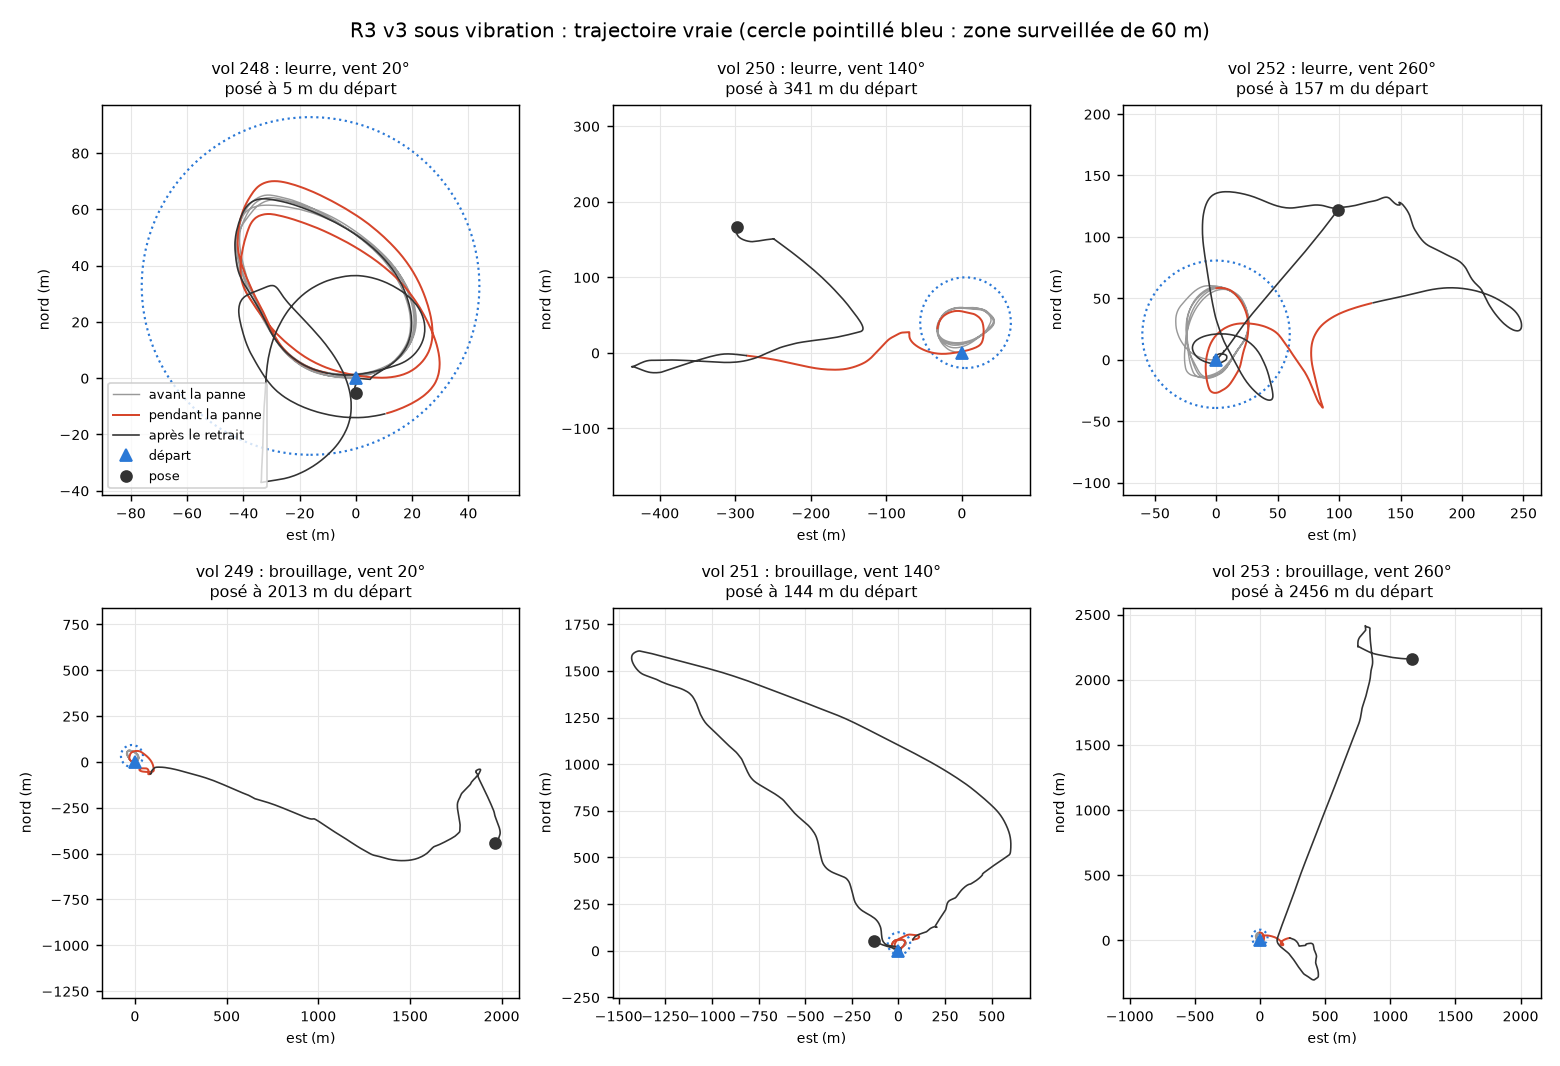
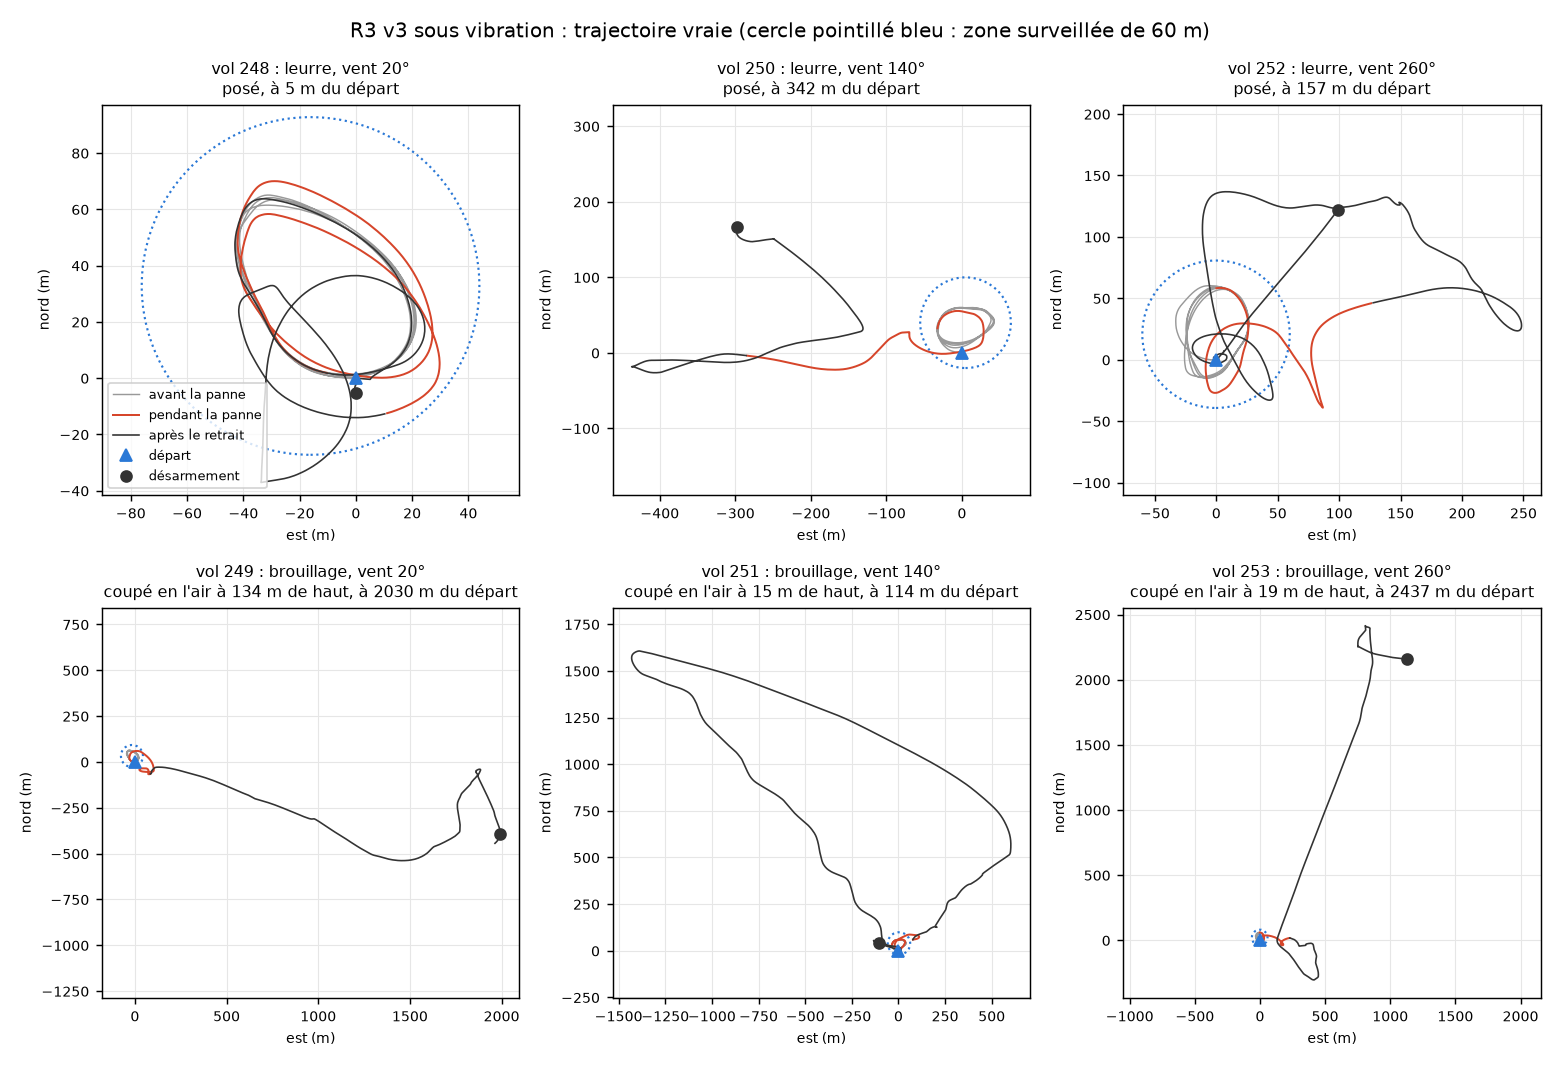
feat: flux optique simulé, R3 sous vibration reprend le GPS 9 fois sur 9 ; désarmement forcé sûr
- scripts/flux_optique.parm et lancer_vol.sh --flux_optique : flux optique et télémètre simulés
  chargés au démarrage du SITL, suivi du terrain désactivé (SURFTRAK_MODE 0, WP_RFND_USE 0).
- vol_auto.py --flux_optique (vérification des paramètres) et --flux_permanent (flux fusionné en
  permanence, EK3_SRC3_VELXY 5 et EK3_SRC_OPTIONS 1).
- Vols 254 à 267 : avec vibration et flux, R3 reprend le GPS sain 9 fois sur 9 (1 sur 6 sans
  flux), erreur de position de 4 à 15 m à la fin de la panne (113 à 319 m sans flux).
- vol_auto.py : le désarmement forcé exige 15 s posé d'après l'état vrai du simulateur
  (SIM_STATE). L'ancienne règle, fondée sur l'altitude estimée, a coupé six drones en l'air
  après le RTL (vols 249, 251, 253, 264, 265, 267) ; README et figure corrigés.

diff --git a/scripts/vol_auto.py b/scripts/vol_auto.py
@@ -3,6 +3,7 @@
 Usage : python vol_auto.py <scenario> [vent_vitesse vent_direction vent_turbulence]
                            [--injection T] [--amplitude A] [--detecteur] [--trainee] [--bascule T]
                            [--reponse rien|natif|natif_trainee|r3] [--bruit R] [--vibration]
+                           [--flux_optique] [--flux_permanent]
         (le SITL doit écouter sur tcp:127.0.0.1:5760)
 Scénarios : nominal, gps60, gps30, biais10, biais05, biais, magneto, jam, et (amplitude obligatoire)
 derive, gyro, bruit_gyro, bloque, leurre, leurre_rampe.
@@ -60,6 +61,15 @@ R = 30 ou 60 est bien plus fort que le bruit d'une vraie IMU (README).
 (Tools/autotest/arducopter.py:5644-5658), appliquées aux trois IMU : VIBRATION. Avec une
 vibration, SIM_GYR*_RND et SIM_ACC*_RND deviennent l'amplitude de sinusoïdes aux fréquences des
 moteurs au lieu d'un bruit blanc (AP_InertialSensor_SITL.cpp:245-279).
+--flux_optique : capteur de flux optique et télémètre simulés (scripts/flux_optique.parm, chargé
+au démarrage du SITL par lancer_vol.sh, car FLOW_TYPE et RNGFND1_TYPE ne sont lus qu'au
+démarrage) ; vol_auto.py vérifie seulement qu'ils sont configurés. L'EKF ne s'en sert pas tant
+qu'aucun jeu de sources ne le choisit (EK3_SRCn_VELXY = 5) : vols pilotes 254 et 255.
+--flux_permanent (avec --flux_optique) : l'EKF fusionne en permanence la vitesse du flux optique
+avec le GPS : flux déclaré comme vitesse du jeu de sources 3, inutilisé par ailleurs, et
+EK3_SRC_OPTIONS = 1 (« fuse all velocities », AP_NavEKF_Source.cpp:169-186), réglés avant le
+décollage. La vitesse GPS reste fusionnée seulement si la position active est le GPS
+(AP_NavEKF3_PosVelFusion.cpp:562-565) : une bascule sur le jeu 2 l'écarte toujours.
 Le plus simple est de passer par scripts/lancer_vol.sh, qui démarre et arrête le SITL.
 
 Déroulé : attente que les deux cœurs EKF utilisent le GPS, FS_EKF_ACTION 0,
@@ -106,6 +116,9 @@ SCENARIOS = {
 }
 VIBRATION = {"SIM_VIB_MOT_MAX": 350, "SIM_GYR1_RND": 20, "SIM_GYR2_RND": 20, "SIM_GYR3_RND": 20,
              "SIM_ACC1_RND": 5, "SIM_ACC2_RND": 5, "SIM_ACC3_RND": 5}
+FLUX_OPTIQUE = {"SIM_FLOW_ENABLE": 1, "FLOW_TYPE": 10, "RNGFND1_TYPE": 1, "SURFTRAK_MODE": 0,
+                "WP_RFND_USE": 0}
+FLUX_PERMANENT = {"EK3_SRC3_VELXY": 5, "EK3_SRC_OPTIONS": 1}
 TRAINEE = {"EK3_DRAG_BCOEF_X": 9.5, "EK3_DRAG_BCOEF_Y": 9.5, "EK3_DRAG_MCOEF": 0.082}
 SOURCES_SANS_GPS = {"EK3_SRC2_POSXY": 0, "EK3_SRC2_VELXY": 0, "EK3_SRC2_POSZ": 1, "EK3_SRC2_VELZ": 0,
                     "EK3_SRC2_YAW": 1}
@@ -114,6 +127,15 @@ CERCLE_NOMINAL = 180
 CERCLE_APRES = 90
 ALT_DECOLLAGE = 15.0
 ALT_SECURITE = 8.0
+# Désarmement forcé seulement si le drone est vraiment posé (état vrai du simulateur, SIM_STATE) :
+# l'altitude estimée seule ne suffit pas, elle peut dériver au sol sous vibration et le drone
+# redécoller (log 281 : coupé à 32,8 m d'altitude vraie, logs 263, 265, 267, 278, 279 aussi).
+# Pas de comparaison à l'altitude du départ : le terrain du SITL n'est pas plat (log 264 posé 1,9 m
+# plus haut, log 211 5,3 m plus bas). En LAND, le drone descend à ≈ 0,5 m/s jusqu'au sol.
+POSE_ECART_ALT_M = 0.3  # variation de l'altitude vraie pendant POSE_DUREE_S
+POSE_VD_M_S = 0.3       # vitesse verticale vraie
+POSE_DUREE_S = 15
+POSE_ATTENTE_MAX_S = 120
 # R3 v3 : durée pendant laquelle Copter accepte la position estimée à l'estime (défaut 30 s, plage
 # documentée 0 à 120 s). Avec 30 s, Copter perdait la position avant le dernier recours de R3 et
 # refusait le RTL (vols 151, 155, 157, 159, 167, 169, 171). La navigation à l'estime commence
@@ -133,7 +155,13 @@ arguments.add_argument("--reponse", choices=["rien", "natif", "natif_trainee", "
                        help="réponse à la panne")
 arguments.add_argument("--bruit", type=float, help="bruit de gyroscope pendant tout le vol (SIM_GYR*_RND)")
 arguments.add_argument("--vibration", action="store_true", help="vibration des moteurs pendant tout le vol")
+arguments.add_argument("--flux_optique", action="store_true",
+                       help="vérifie le flux optique et le télémètre chargés par lancer_vol.sh")
+arguments.add_argument("--flux_permanent", action="store_true",
+                       help="fusionne en permanence la vitesse du flux optique avec le GPS")
 args = arguments.parse_args()
+if args.flux_permanent and not args.flux_optique:
+    arguments.error("--flux_permanent demande --flux_optique")
 if args.reponse == "r3":
     args.detecteur = args.trainee = True
 if len(args.vent) not in (0, 3):
@@ -161,7 +189,8 @@ if args.bascule is not None and (panne is not None or args.bascule + DUREE_BASCU
 
 etat = {"alt": None, "arme": False, "mode": None, "crash": False, "fix": None, "sats": None,
         "ekf_gps": set(), "ack_takeoff": None, "ack_source": None,
-        "lat_gps": None, "lon_gps": None, "lat_est": None, "lon_est": None}
+        "lat_gps": None, "lon_gps": None, "lat_est": None, "lon_est": None,
+        "alt_vraie": None, "alt_vraie_depart": None, "vd_vraie": None}
 params = {}
 t_debut = time.monotonic()
 t_cercle = None
@@ -199,6 +228,9 @@ m = connecter()
 journal(f"Connecté au SITL, scénario {args.scenario}, vent {vent}, injection à {CERCLE_AVANT:g} s"
         + ("" if panne is None else f", valeur injectée {panne['injection']:g}"))
 m.mav.request_data_stream_send(1, 1, mavutil.mavlink.MAV_DATA_STREAM_ALL, 4, 1)
+# État vrai du simulateur à 5 Hz (intervalle en µs), pour vérifier que le drone est posé
+m.mav.command_long_send(1, 1, mavutil.mavlink.MAV_CMD_SET_MESSAGE_INTERVAL, 0,
+                        mavutil.mavlink.MAVLINK_MSG_ID_SIM_STATE, 200000, 0, 0, 0, 0, 0)
 
 if args.detecteur:
     sys.path.insert(0, os.path.dirname(os.path.abspath(__file__)))
@@ -224,6 +256,11 @@ def traiter(msg):
     if genre == "GLOBAL_POSITION_INT":
         etat["alt"] = msg.relative_alt / 1000
         etat["lat_est"], etat["lon_est"] = msg.lat / 1e7, msg.lon / 1e7
+    elif genre == "SIM_STATE":
+        # Altitude vraie (m, niveau de la mer) : la première, drone au sol avant l'armement, sert de référence
+        if etat["alt_vraie_depart"] is None and not etat["arme"]:
+            etat["alt_vraie_depart"] = msg.alt
+        etat["alt_vraie"], etat["vd_vraie"] = msg.alt, msg.vd
     elif genre == "HEARTBEAT" and msg.get_srcSystem() == 1 and msg.get_srcComponent() == 1:
         etat["arme"] = bool(msg.base_mode & mavutil.mavlink.MAV_MODE_FLAG_SAFETY_ARMED)
         etat["mode"] = msg.custom_mode
@@ -384,6 +421,14 @@ if not pomper(180, lambda: {"IMU0", "IMU1"} <= etat["ekf_gps"]):
     sys.exit("L'EKF n'utilise pas le GPS")
 journal("Les deux cœurs EKF utilisent le GPS")
 
+# Flux optique et télémètre : chargés au démarrage du SITL, seulement vérifiés ici
+if args.flux_optique:
+    for nom, attendu in FLUX_OPTIQUE.items():
+        valeur = lire(nom)
+        if valeur != attendu:
+            sys.exit(f"{nom} vaut {valeur}, attendu {attendu} : lancer avec lancer_vol.sh --flux_optique")
+    journal("Flux optique et télémètre simulés configurés")
+
 # Vent (avant le décollage, pour qu'il soit établi pendant tout le cercle)
 if vent is not None:
     regler({"SIM_WIND_T": 1})
@@ -407,6 +452,8 @@ if args.reponse == "r3":
     regler({"FS_DR_TIMEOUT": DUREE_ESTIME_S})
 if args.bascule is not None or args.reponse == "r3":
     regler(SOURCES_SANS_GPS)
+if args.flux_permanent:
+    regler(FLUX_PERMANENT)
 regler({"CIRCLE_RADIUS_M": 30})
 regler({"CIRCLE_RATE": 15})
 changer_mode(GUIDED, "guided")
@@ -492,11 +539,34 @@ if not pomper(900, lambda: not etat["arme"] or (etat["alt"] is not None and etat
 # Avec du vent, le drone posé peut rester armé : le régulateur demande encore de l'inclinaison
 # pour tenir la position, et le détecteur d'atterrissage d'ArduPilot ne conclut jamais
 # (drapeau ANGLE de LDET, vu au log 26). On désarme alors comme le ferait un pilote.
-if not pomper(15, lambda: not etat["arme"]):
-    journal("Toujours armé 15 s après le contact avec le sol : désarmement demandé")
+debut_pose = alt_min = alt_max = None
+fin_attente = time.monotonic() + POSE_ATTENTE_MAX_S
+while etat["arme"]:
+    if time.monotonic() > fin_attente:
+        if etat["alt_vraie"] is None:
+            sys.exit("SIM_STATE jamais reçu : pas de désarmement forcé")
+        sys.exit(f"Drone pas posé après {POSE_ATTENTE_MAX_S} s (altitude vraie "
+                 f"{etat['alt_vraie'] - etat['alt_vraie_depart']:+.1f} m) : pas de désarmement forcé")
+    pomper(0.2)
+    if etat["alt_vraie"] is None:
+        continue
+    # Posé = vitesse verticale vraie faible et altitude vraie stable depuis debut_pose
+    if debut_pose is not None:
+        alt_min, alt_max = min(alt_min, etat["alt_vraie"]), max(alt_max, etat["alt_vraie"])
+    if abs(etat["vd_vraie"]) >= POSE_VD_M_S or (debut_pose is not None and alt_max - alt_min >= POSE_ECART_ALT_M):
+        if debut_pose is not None:
+            journal(f"Drone pas posé (altitude vraie {etat['alt_vraie'] - etat['alt_vraie_depart']:+.1f} m, "
+                    f"vitesse verticale {etat['vd_vraie']:+.1f} m/s) : attente reprise")
+        debut_pose = None
+    elif debut_pose is None:
+        debut_pose, alt_min, alt_max = time.monotonic(), etat["alt_vraie"], etat["alt_vraie"]
+    elif time.monotonic() - debut_pose >= POSE_DUREE_S:
+        break
+if etat["arme"]:
+    journal(f"Toujours armé, posé depuis {POSE_DUREE_S} s (état vrai du simulateur) : désarmement demandé")
     m.mav.command_long_send(1, 1, mavutil.mavlink.MAV_CMD_COMPONENT_ARM_DISARM, 0, 0, 0, 0, 0, 0, 0, 0)
     if not pomper(5, lambda: not etat["arme"]):
-        journal("Désarmement refusé : désarmement forcé (drone au sol)")
+        journal("Désarmement refusé : désarmement forcé (drone posé)")
         m.mav.command_long_send(1, 1, mavutil.mavlink.MAV_CMD_COMPONENT_ARM_DISARM, 0, 0, 21196, 0, 0, 0, 0, 0)
         if not pomper(5, lambda: not etat["arme"]):
             sys.exit("Désarmement impossible")
